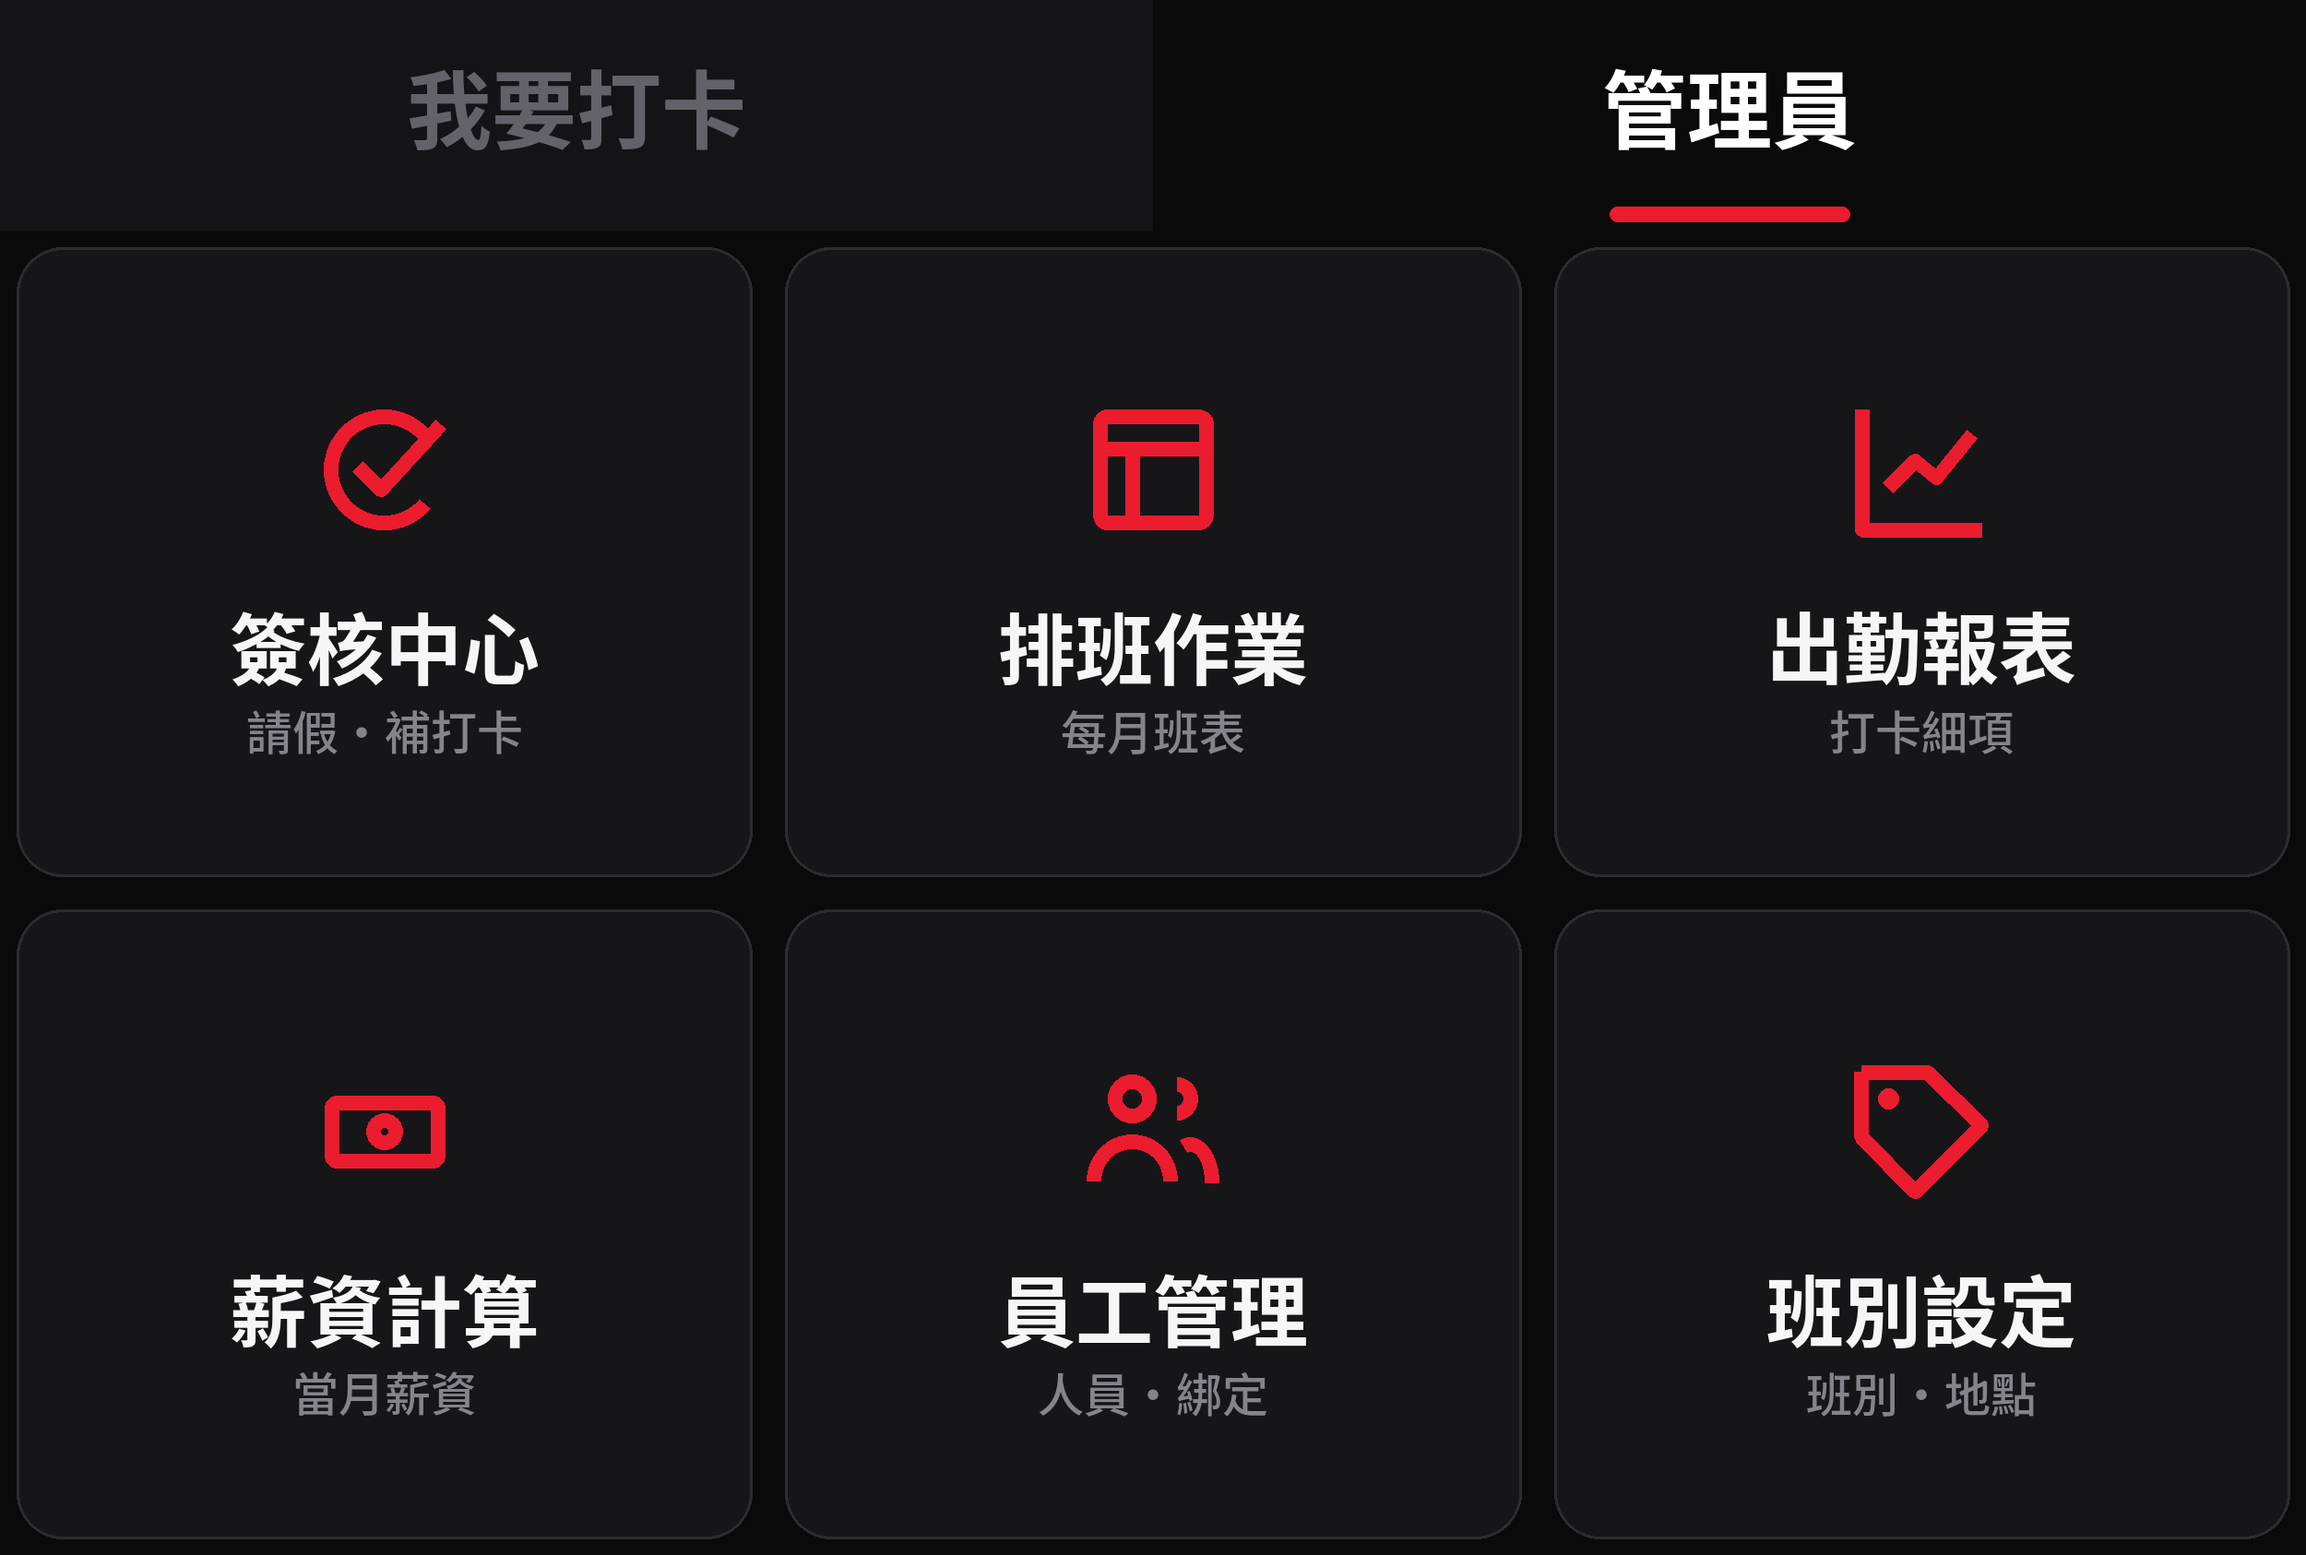
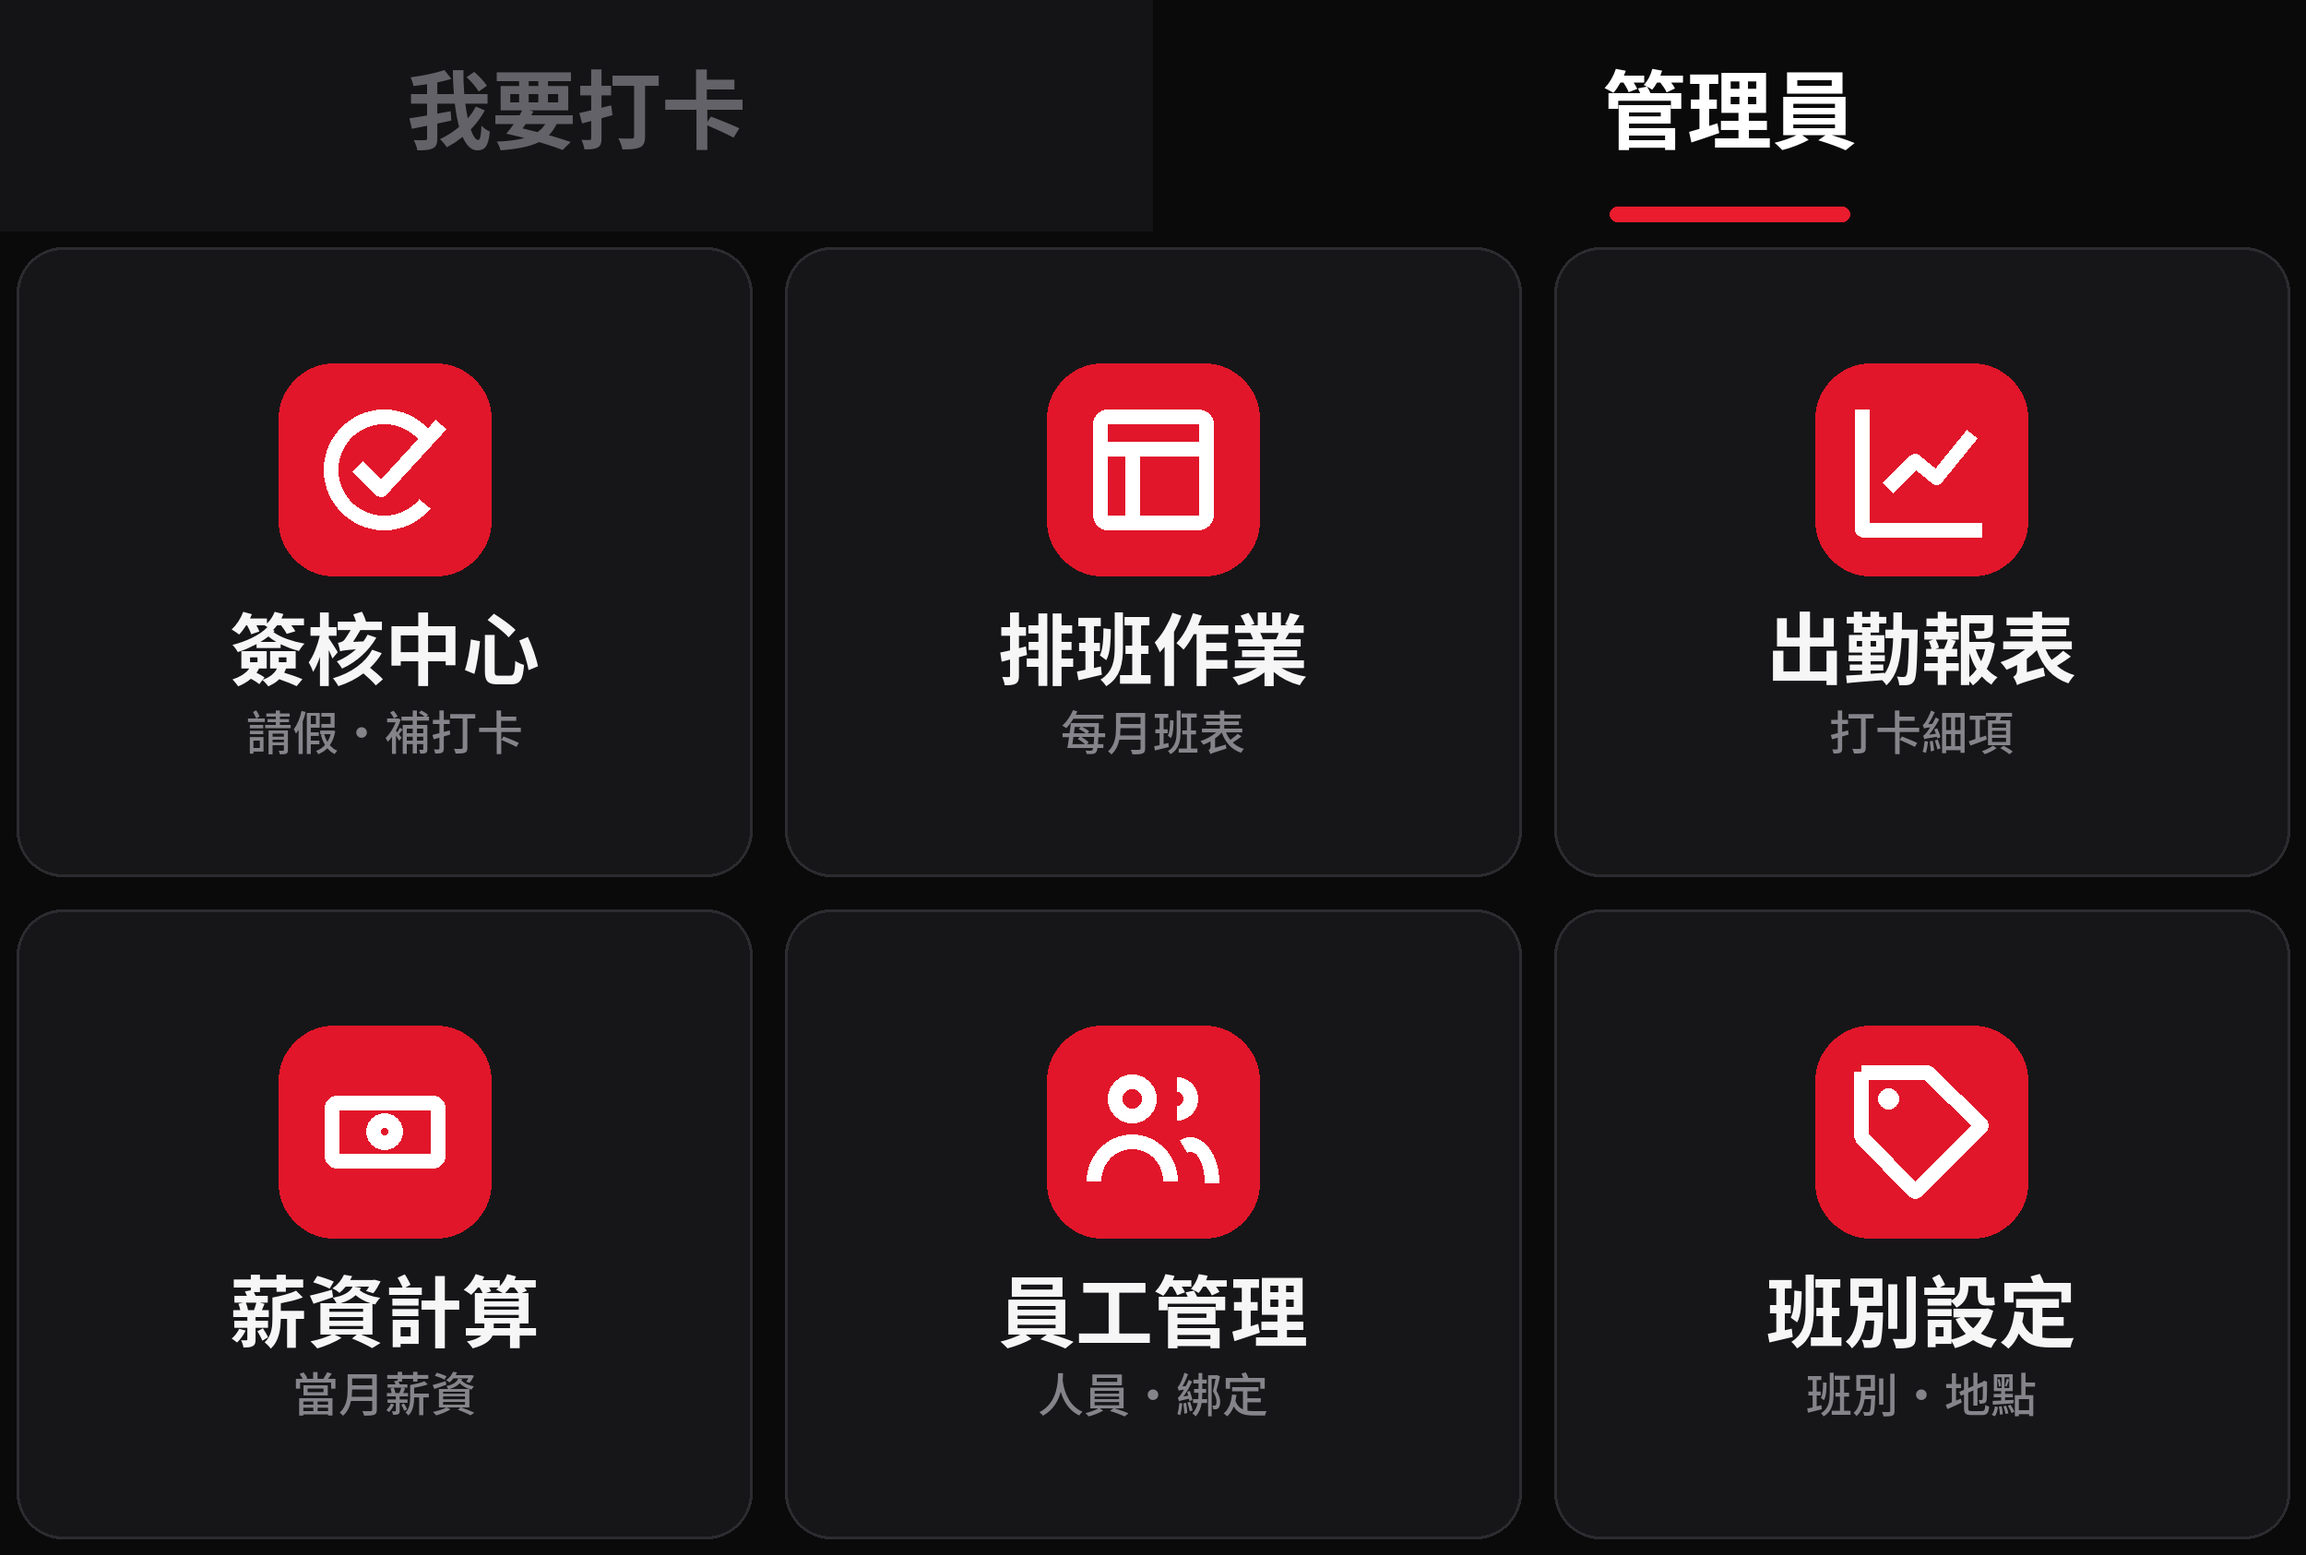
圖文選單小卡圖示改為紅色實心方塊
Claude-Session: https://claude.ai/code/session_01SgUoPMs89Ch7rWoMucrYnN

diff --git a/richmenu/make_images.py b/richmenu/make_images.py
@@ -12,7 +12,7 @@ THEMES={
 }
 THEMES.update({
  # 曜石：純黑、紅色光暈、細邊框
- "K1":dict(BG=(10,10,11),ACC=(235,28,46),TXT=(246,246,247),MUT=(132,132,138),TINT=None,CARD=(22,22,24),CARDLINE=(44,44,48),HDON=(10,10,11),HDOFF=(20,20,22),HTON=(255,255,255),HTOFF=(98,98,104),UL=(235,28,46),
+ "K1":dict(BG=(10,10,11),ACC=(235,28,46),TXT=(246,246,247),MUT=(132,132,138),TINT=(225,22,42),ICON=(255,255,255),CARD=(22,22,24),CARDLINE=(44,44,48),HDON=(10,10,11),HDOFF=(20,20,22),HTON=(255,255,255),HTOFF=(98,98,104),UL=(235,28,46),
            G1=(30,30,33),G2=(14,14,15),BIGLINE=(70,20,26),GLOW=(235,28,46),GLOWA=215,GLOWR=430,BIGICON=(255,255,255),BIGSUB=(150,150,156),BIGBAR=(235,28,46),CHEV=(70,70,76)),
  # 炭黑紅漸層：大按鈕黑到深紅斜漸層
  "K2":dict(BG=(18,18,20),ACC=(240,44,60),TXT=(245,245,247),MUT=(140,140,146),TINT=(48,20,24),CARD=(32,32,35),HDON=(18,18,20),HDOFF=(30,30,33),HTON=(255,255,255),HTOFF=(110,110,116),UL=(240,44,60),
